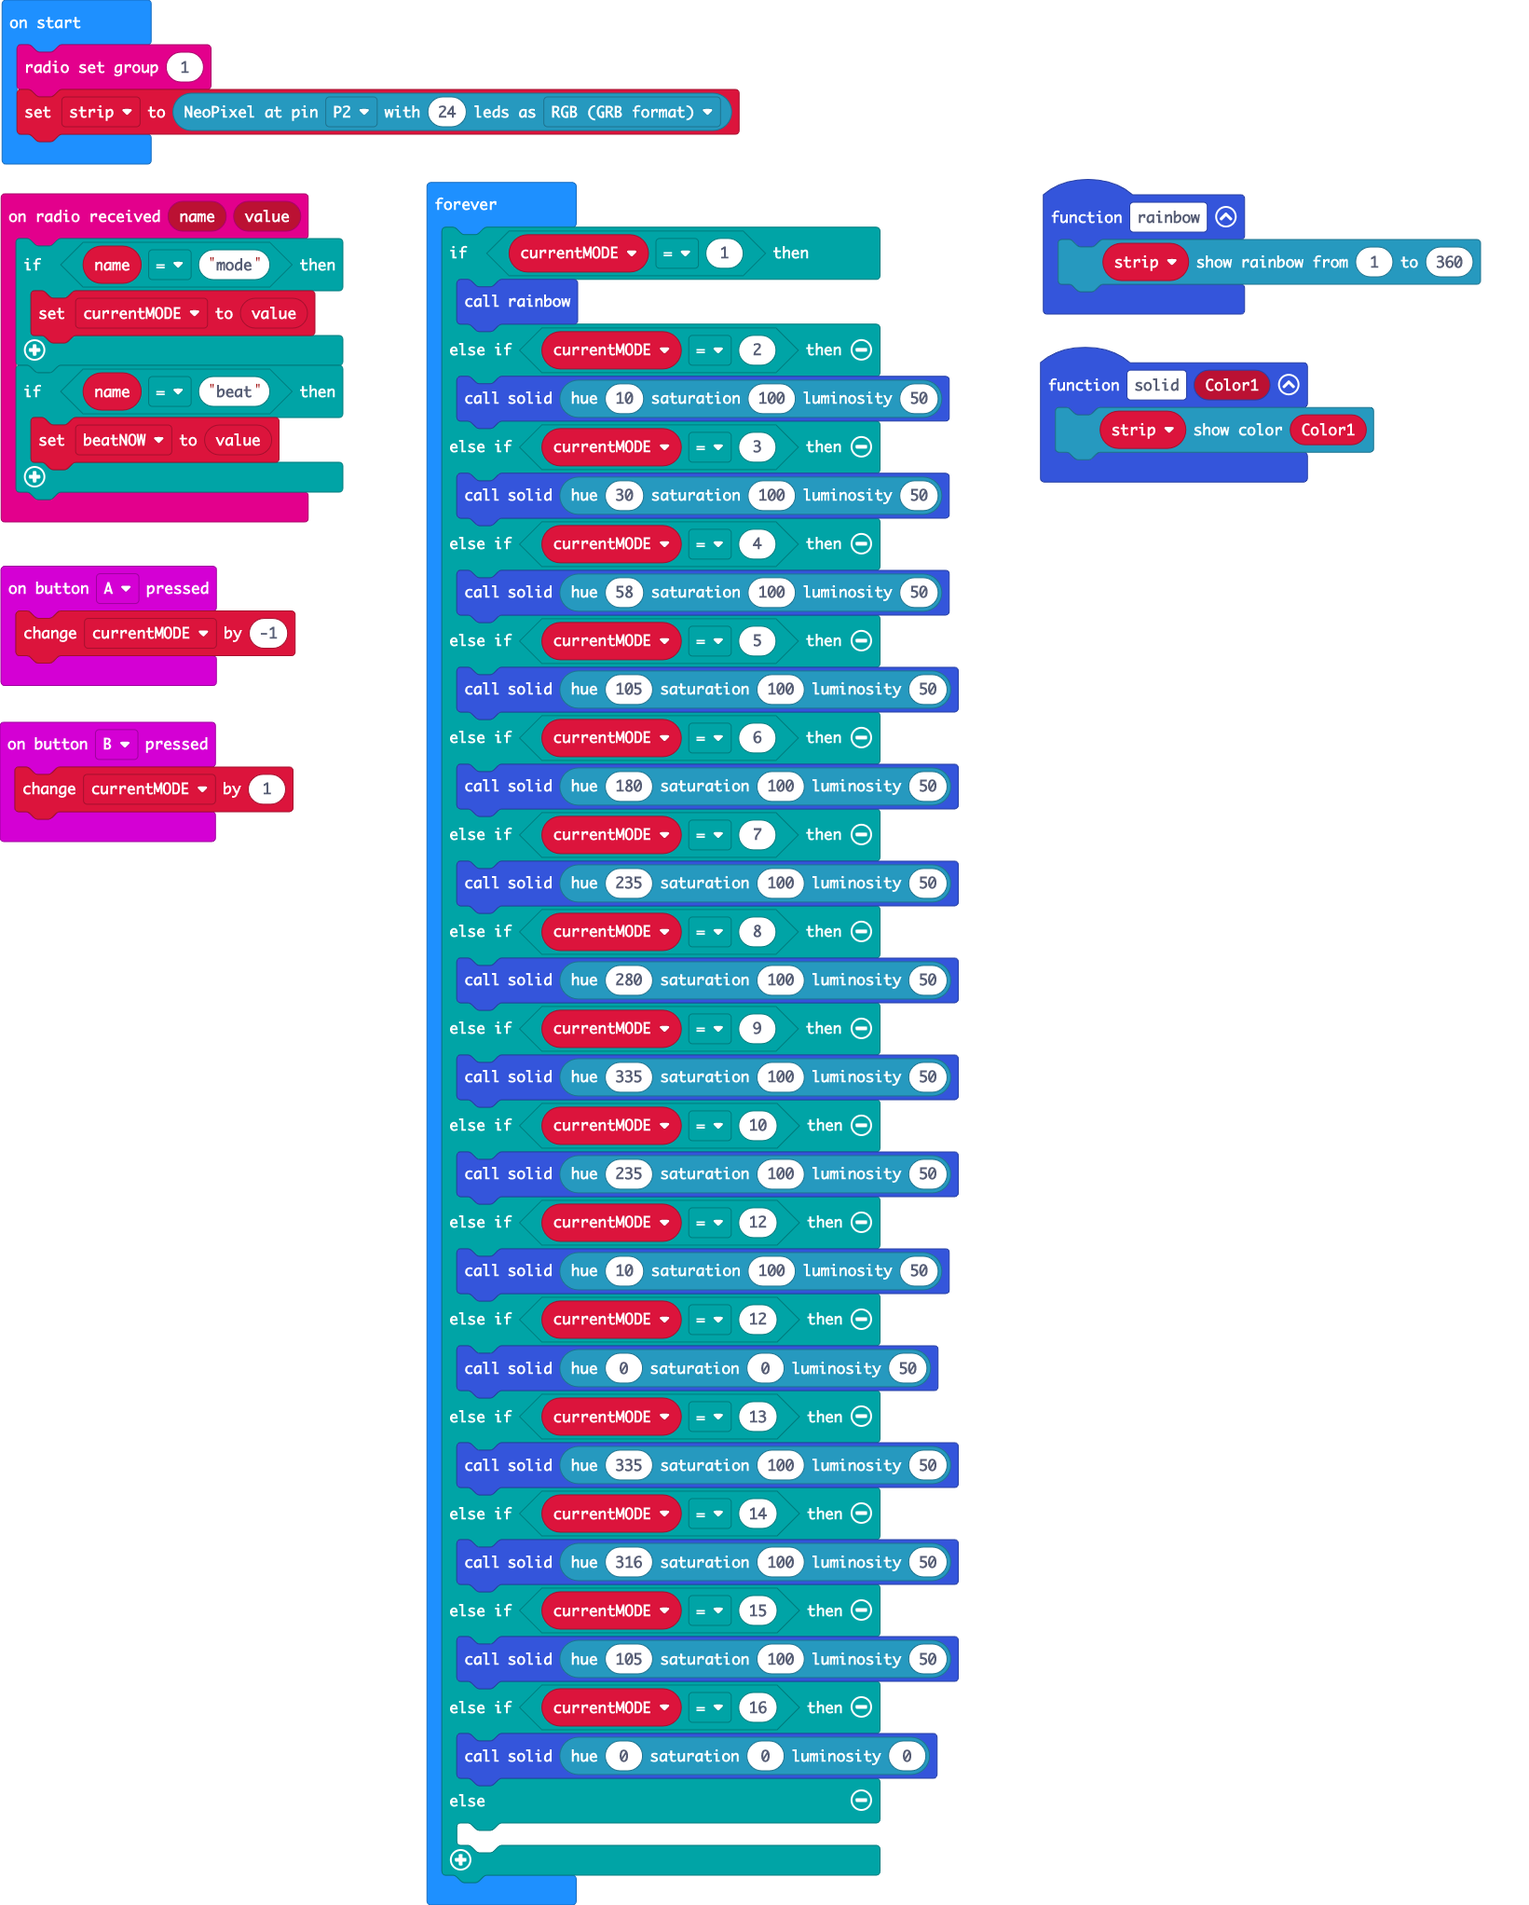
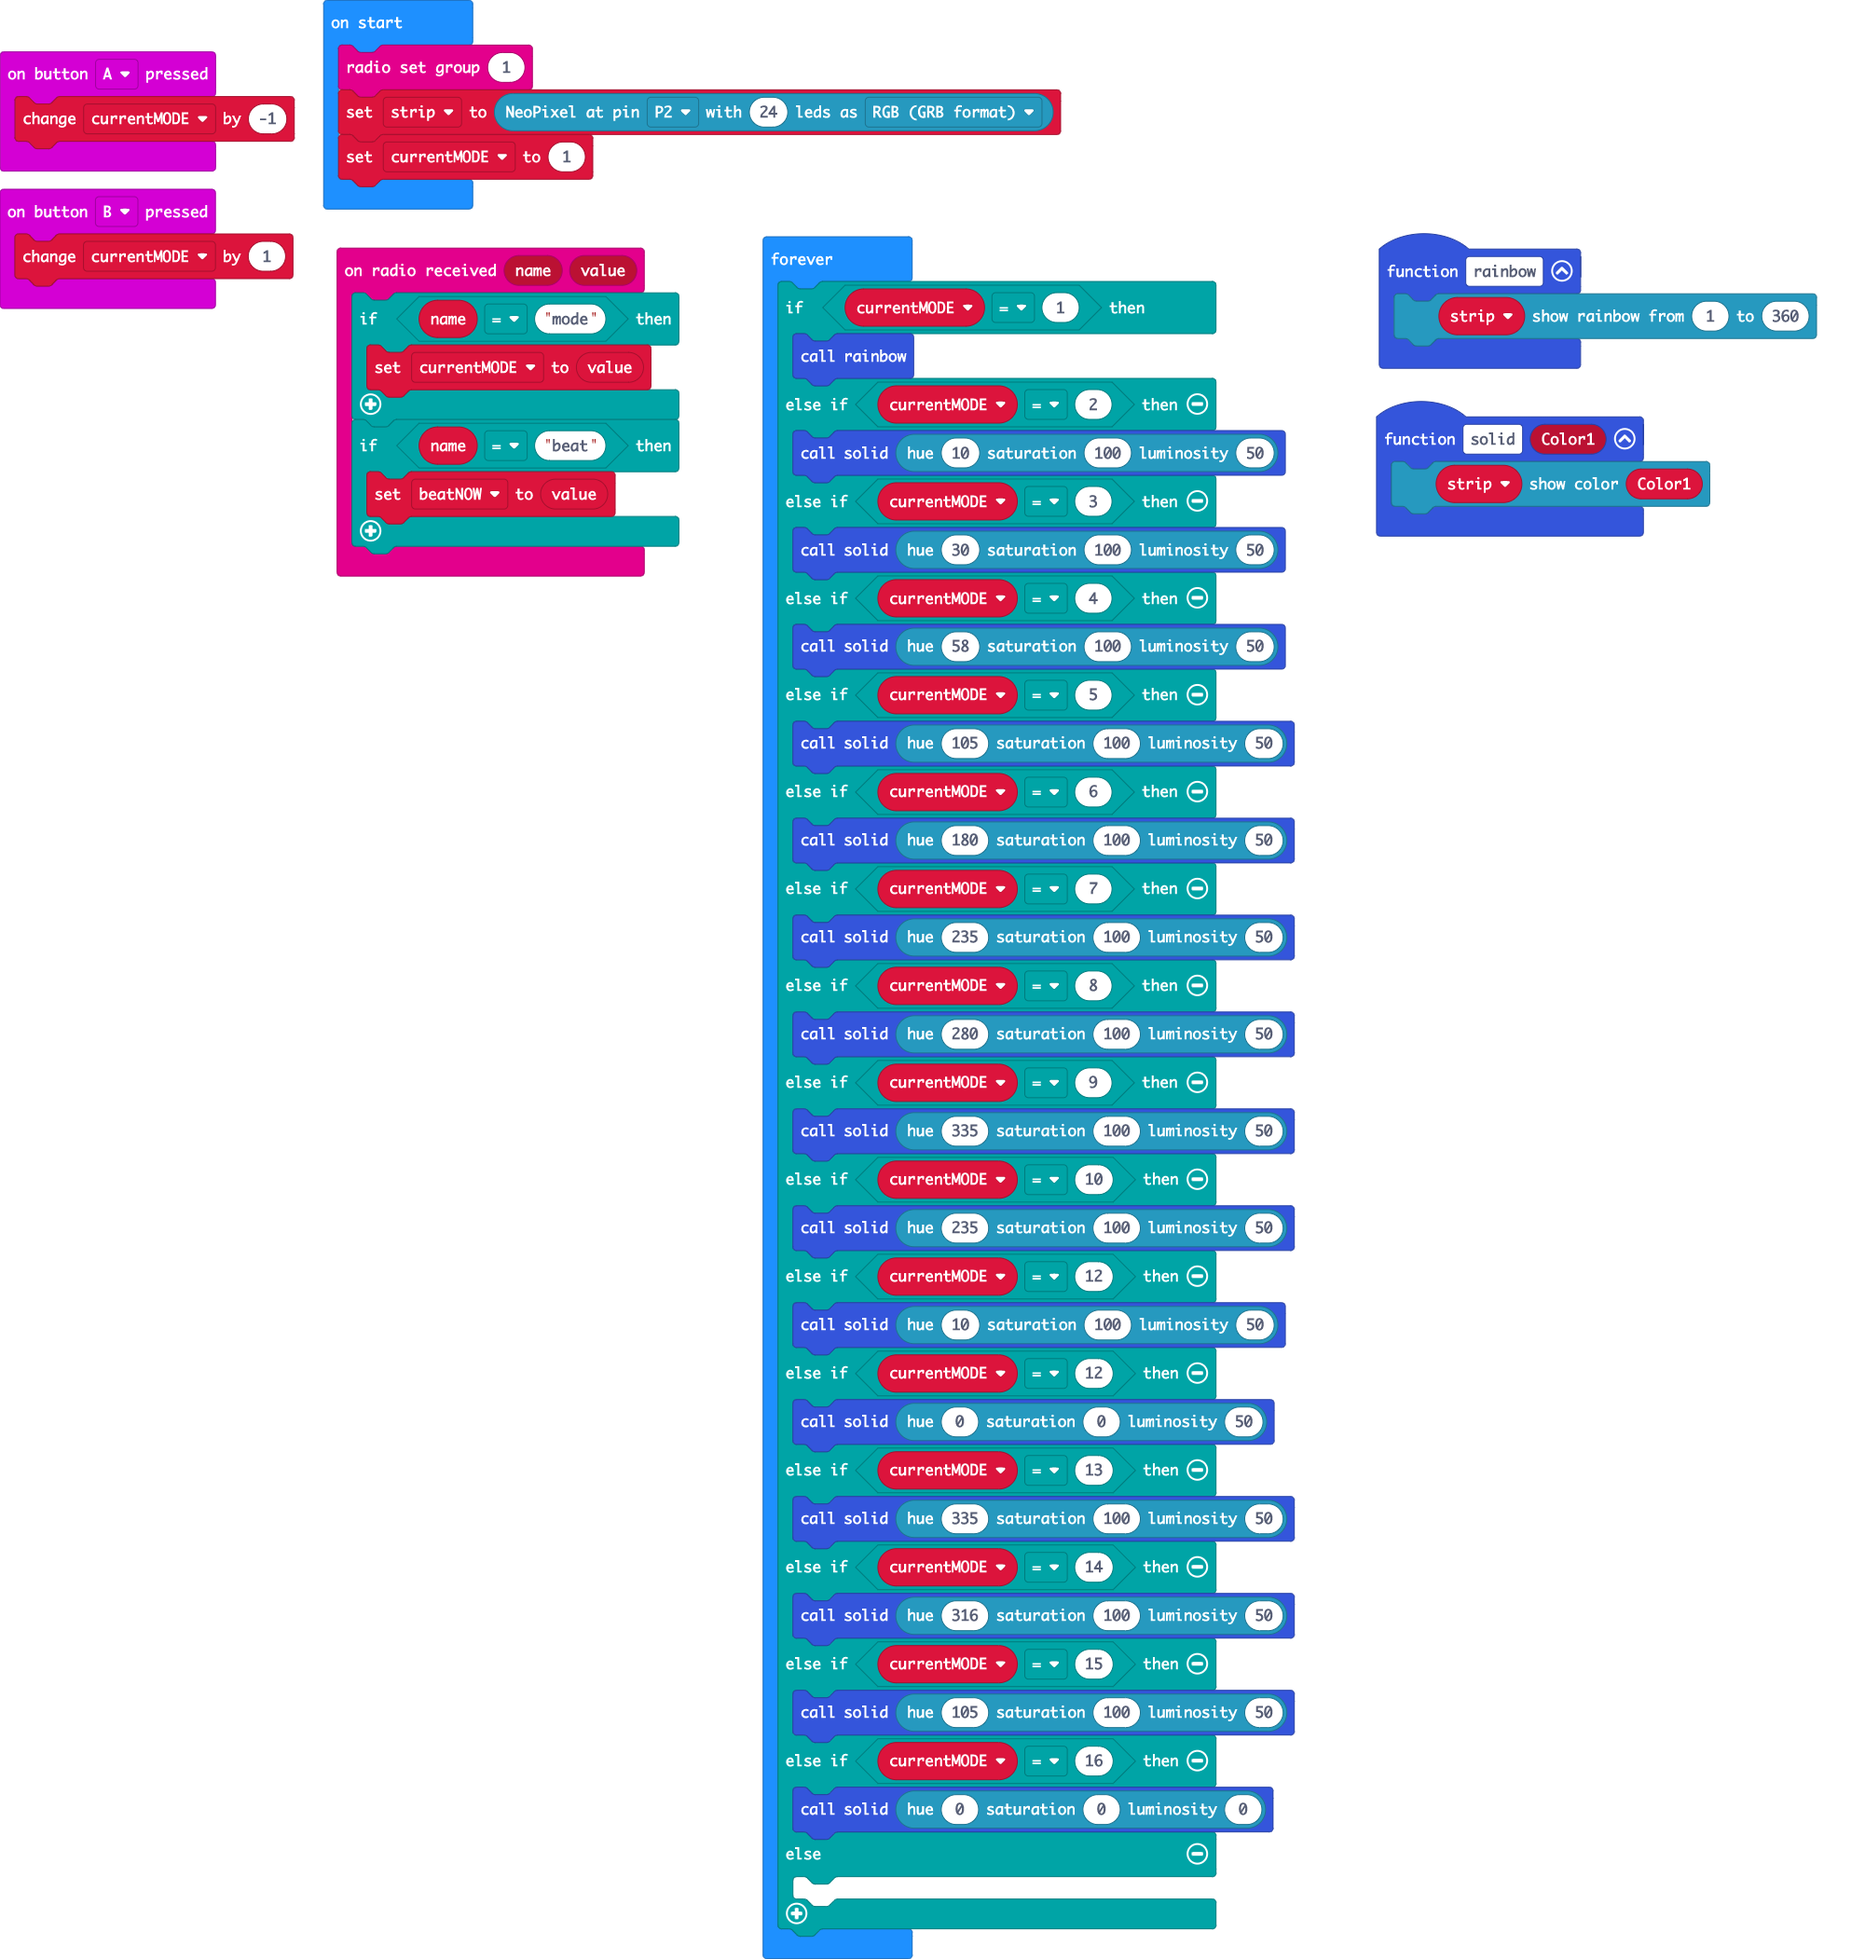
Update main.blocks, main.ts

diff --git a/main.ts b/main.ts
@@ -23,6 +23,7 @@ let currentMODE = 0
 let strip: neopixel.Strip = null
 radio.setGroup(1)
 strip = neopixel.create(DigitalPin.P2, 24, NeoPixelMode.RGB)
+currentMODE = 1
 basic.forever(function () {
     if (currentMODE == 1) {
         rainbow()
